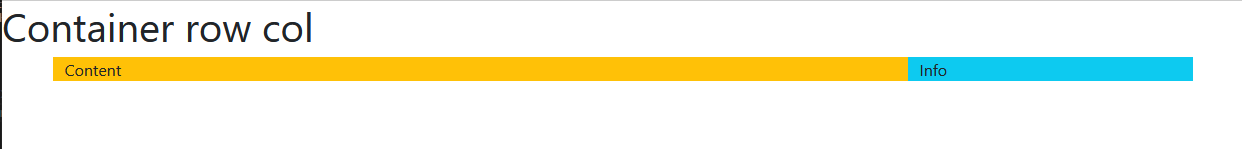
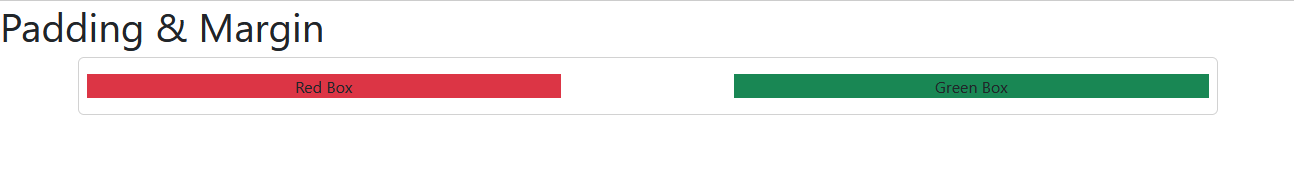
exo padding margin

Changed region(s): [[0.0306, 0.3758, 0.9791, 0.5638], [0.0, 0.0537, 0.2754, 0.2953], [0.0612, 0.6443, 0.9485, 0.6711]]

diff --git a/index.html b/index.html
@@ -10,11 +10,11 @@
 </head>
 
 <body>
-    <h1>Container row col</h1>
-    <div class="mt-1 container">
-        <div class="row">
-            <div class="col-9 bg-warning">Content</div>
-            <div class="col-3 bg-info">Info</div>
+    <h1>Padding & Margin</h1>
+    <div class="mt-1 card container text-center">
+        <div class="row justify-content-between py-3">
+            <div class="col-5 bg-danger ms-2">Red Box</div>
+            <div class="col-5 bg-success me-2">Green Box</div>
         </div>
     </div>
 
